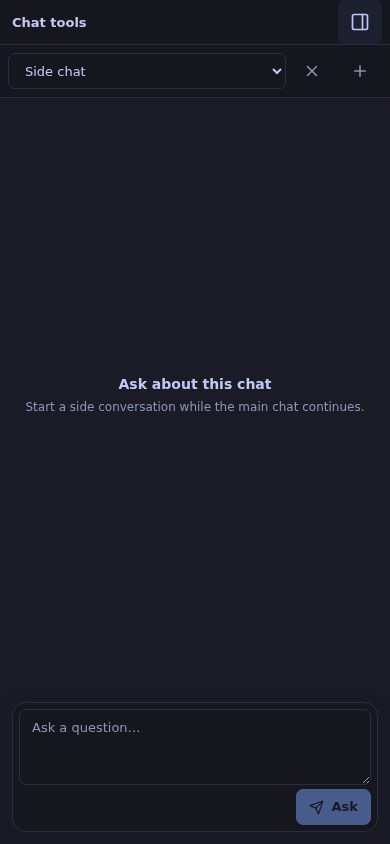
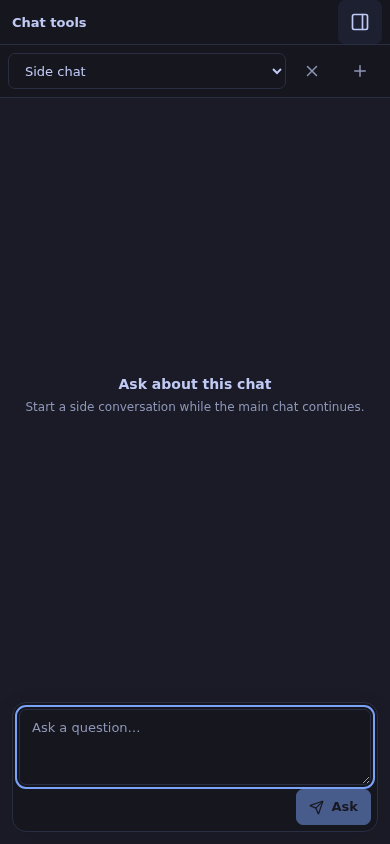
Delay failed side chat migration retries

Changed region(s): [[0.9231, 0.8318, 0.9846, 0.9242], [0.0308, 0.8318, 0.0615, 0.955], [0.9231, 0.9242, 0.9538, 0.955]]

diff --git a/web/src/components/mux-sdk-utility.ts b/web/src/components/mux-sdk-utility.ts
@@ -297,10 +297,12 @@ export class MuxSDKUtility extends LitElement {
     const parent = this.sessionId;
     if (!parent) return;
     const migrationKey = `${TABS_KEY}${parent}.side-chat-migrated`;
+    const retryKey = `${migrationKey}.retry-after`;
     try {
       if (localStorage.getItem(migrationKey) === '1') return;
+      if (Date.now() < Number(localStorage.getItem(retryKey) || 0)) return;
       const response = await fetch(apiPath(remoteChatPath(this.remoteHost, `/api/sdk-chats?sideParentId=${encodeURIComponent(parent)}&archived=false`)));
-      if (!response.ok) return;
+      if (!response.ok) throw new Error('Side chats are unavailable');
       const chats = await response.json() as SDKChat[];
       if (this.sessionId !== parent || !this.isConnected) return;
       let changed = false;
@@ -316,7 +318,11 @@ export class MuxSDKUtility extends LitElement {
       }
       if (changed) { this.saveTabs(); this.paintAll(); }
       localStorage.setItem(migrationKey, '1');
-    } catch { /* Keep saved tabs when the chat list is unavailable. */ }
+      localStorage.removeItem(retryKey);
+    } catch {
+      // Preserve legacy chats for a later migration without fetching on every reload.
+      try { localStorage.setItem(retryKey, String(Date.now() + 5 * 60_000)); } catch { /* private browsing */ }
+    }
   }
   private updateSideDraft({tabId,draft}: {tabId:string;draft:string}) {
     const tab = this.tabs.find(item => item.id === tabId && item.kind === 'side');
@@ -354,9 +360,9 @@ export class MuxSDKUtility extends LitElement {
     try { localStorage.removeItem(this.fileKey()); } catch { /* private browsing */ }
     return inserted;
   }
-  private addTab(kind: UtilityTabId = 'new'): UtilityTab {
+  private addTab(kind: UtilityTabId = 'new', draft = ''): UtilityTab {
     if (this.activeTab === 'browser') this.hideBrowser();
-    const tab: UtilityTab = { id:crypto.randomUUID(), kind };
+    const tab: UtilityTab = { id:crypto.randomUUID(), kind, ...(draft ? {draft} : {}) };
     this.tabs = [...this.tabs,tab]; this.activeTabId = tab.id; this.saveTabs();
     void this.activateTab(tab); this.paintAll(); return tab;
   }
@@ -397,9 +403,7 @@ export class MuxSDKUtility extends LitElement {
     else this.addTab(id);
   }
   async showSideChat(prompt = ''): Promise<void> {
-    const tab = this.addTab('side');
-    tab.draft = prompt;
-    this.saveTabs(); this.paintAll();
+    this.addTab('side', prompt);
     await this.updateComplete;
     this.renderRoot.querySelector<MuxSideChat>('mux-side-chat')?.focusQuestion();
   }
@@ -419,6 +423,7 @@ export class MuxSDKUtility extends LitElement {
     current.kind = kind;
     this.activateTab(current);
     this.saveTabs(); this.paintAll();
+    if (kind === 'side') void this.updateComplete.then(() => this.querySelector<MuxSideChat>('mux-side-chat')?.focusQuestion());
   }
   private newTabView(): TemplateResult {
     return html`<section class="new-tab-surface"><div class="new-tab-home"><h2>Open a tool</h2><div class="new-tab-tools">
